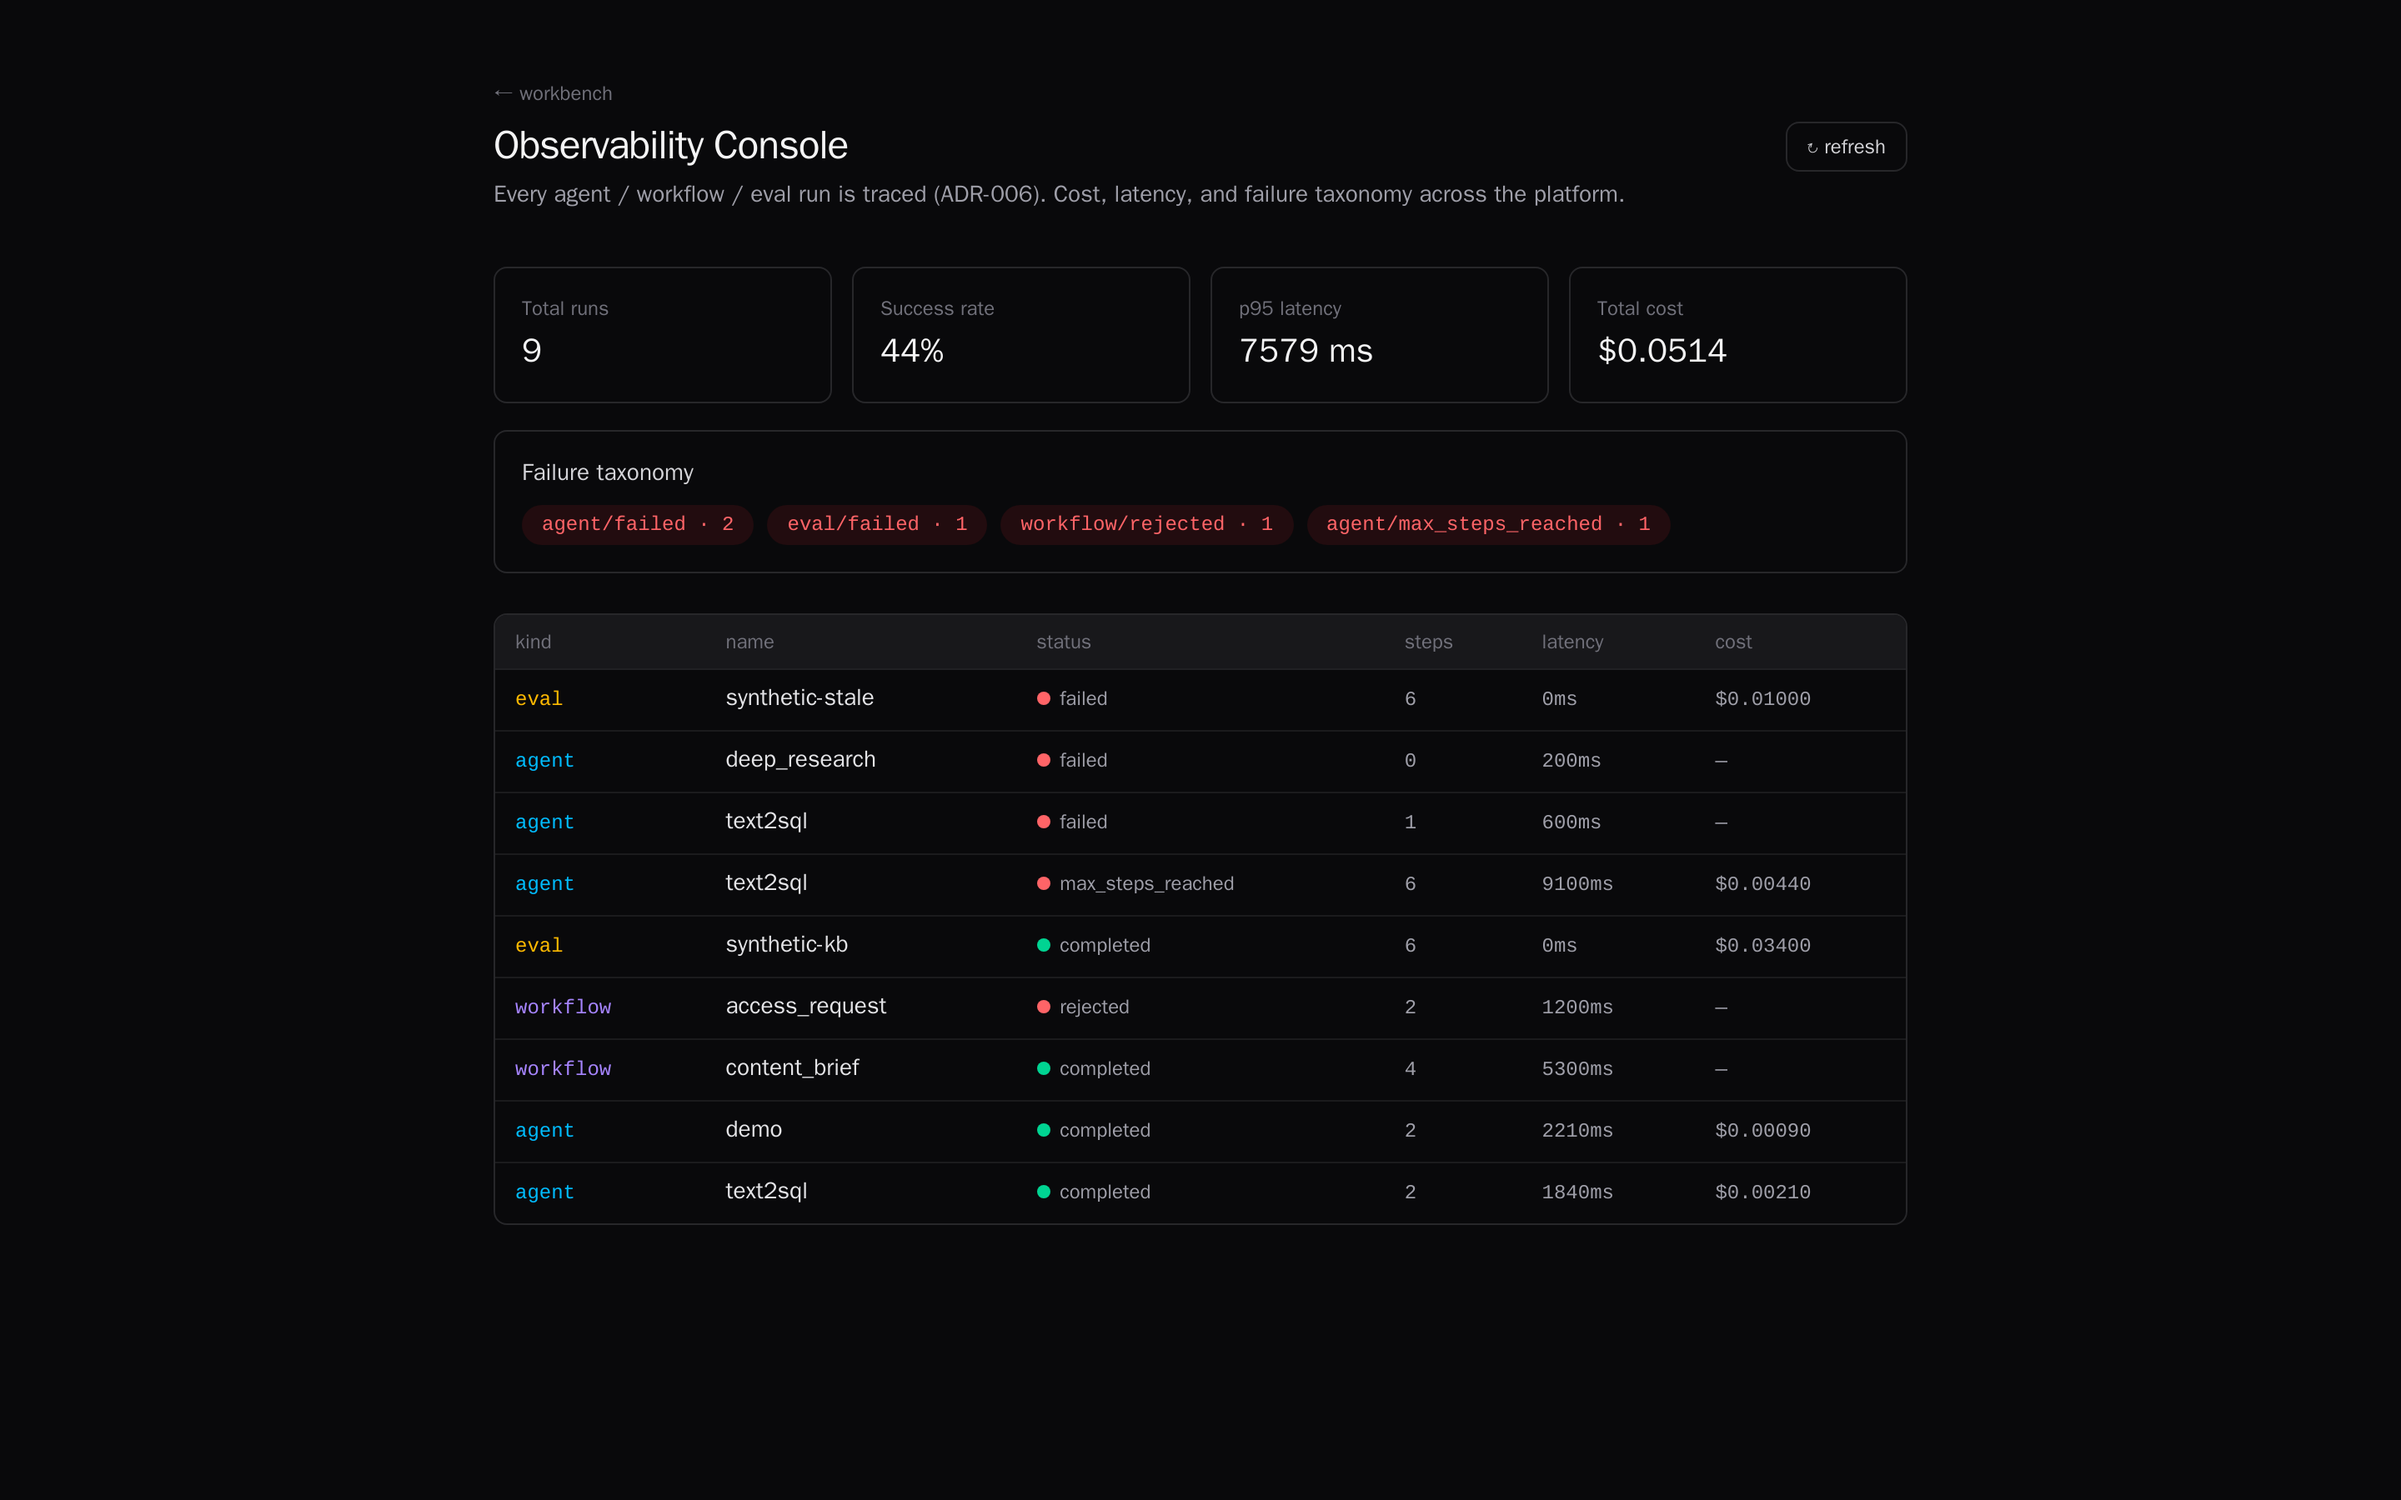
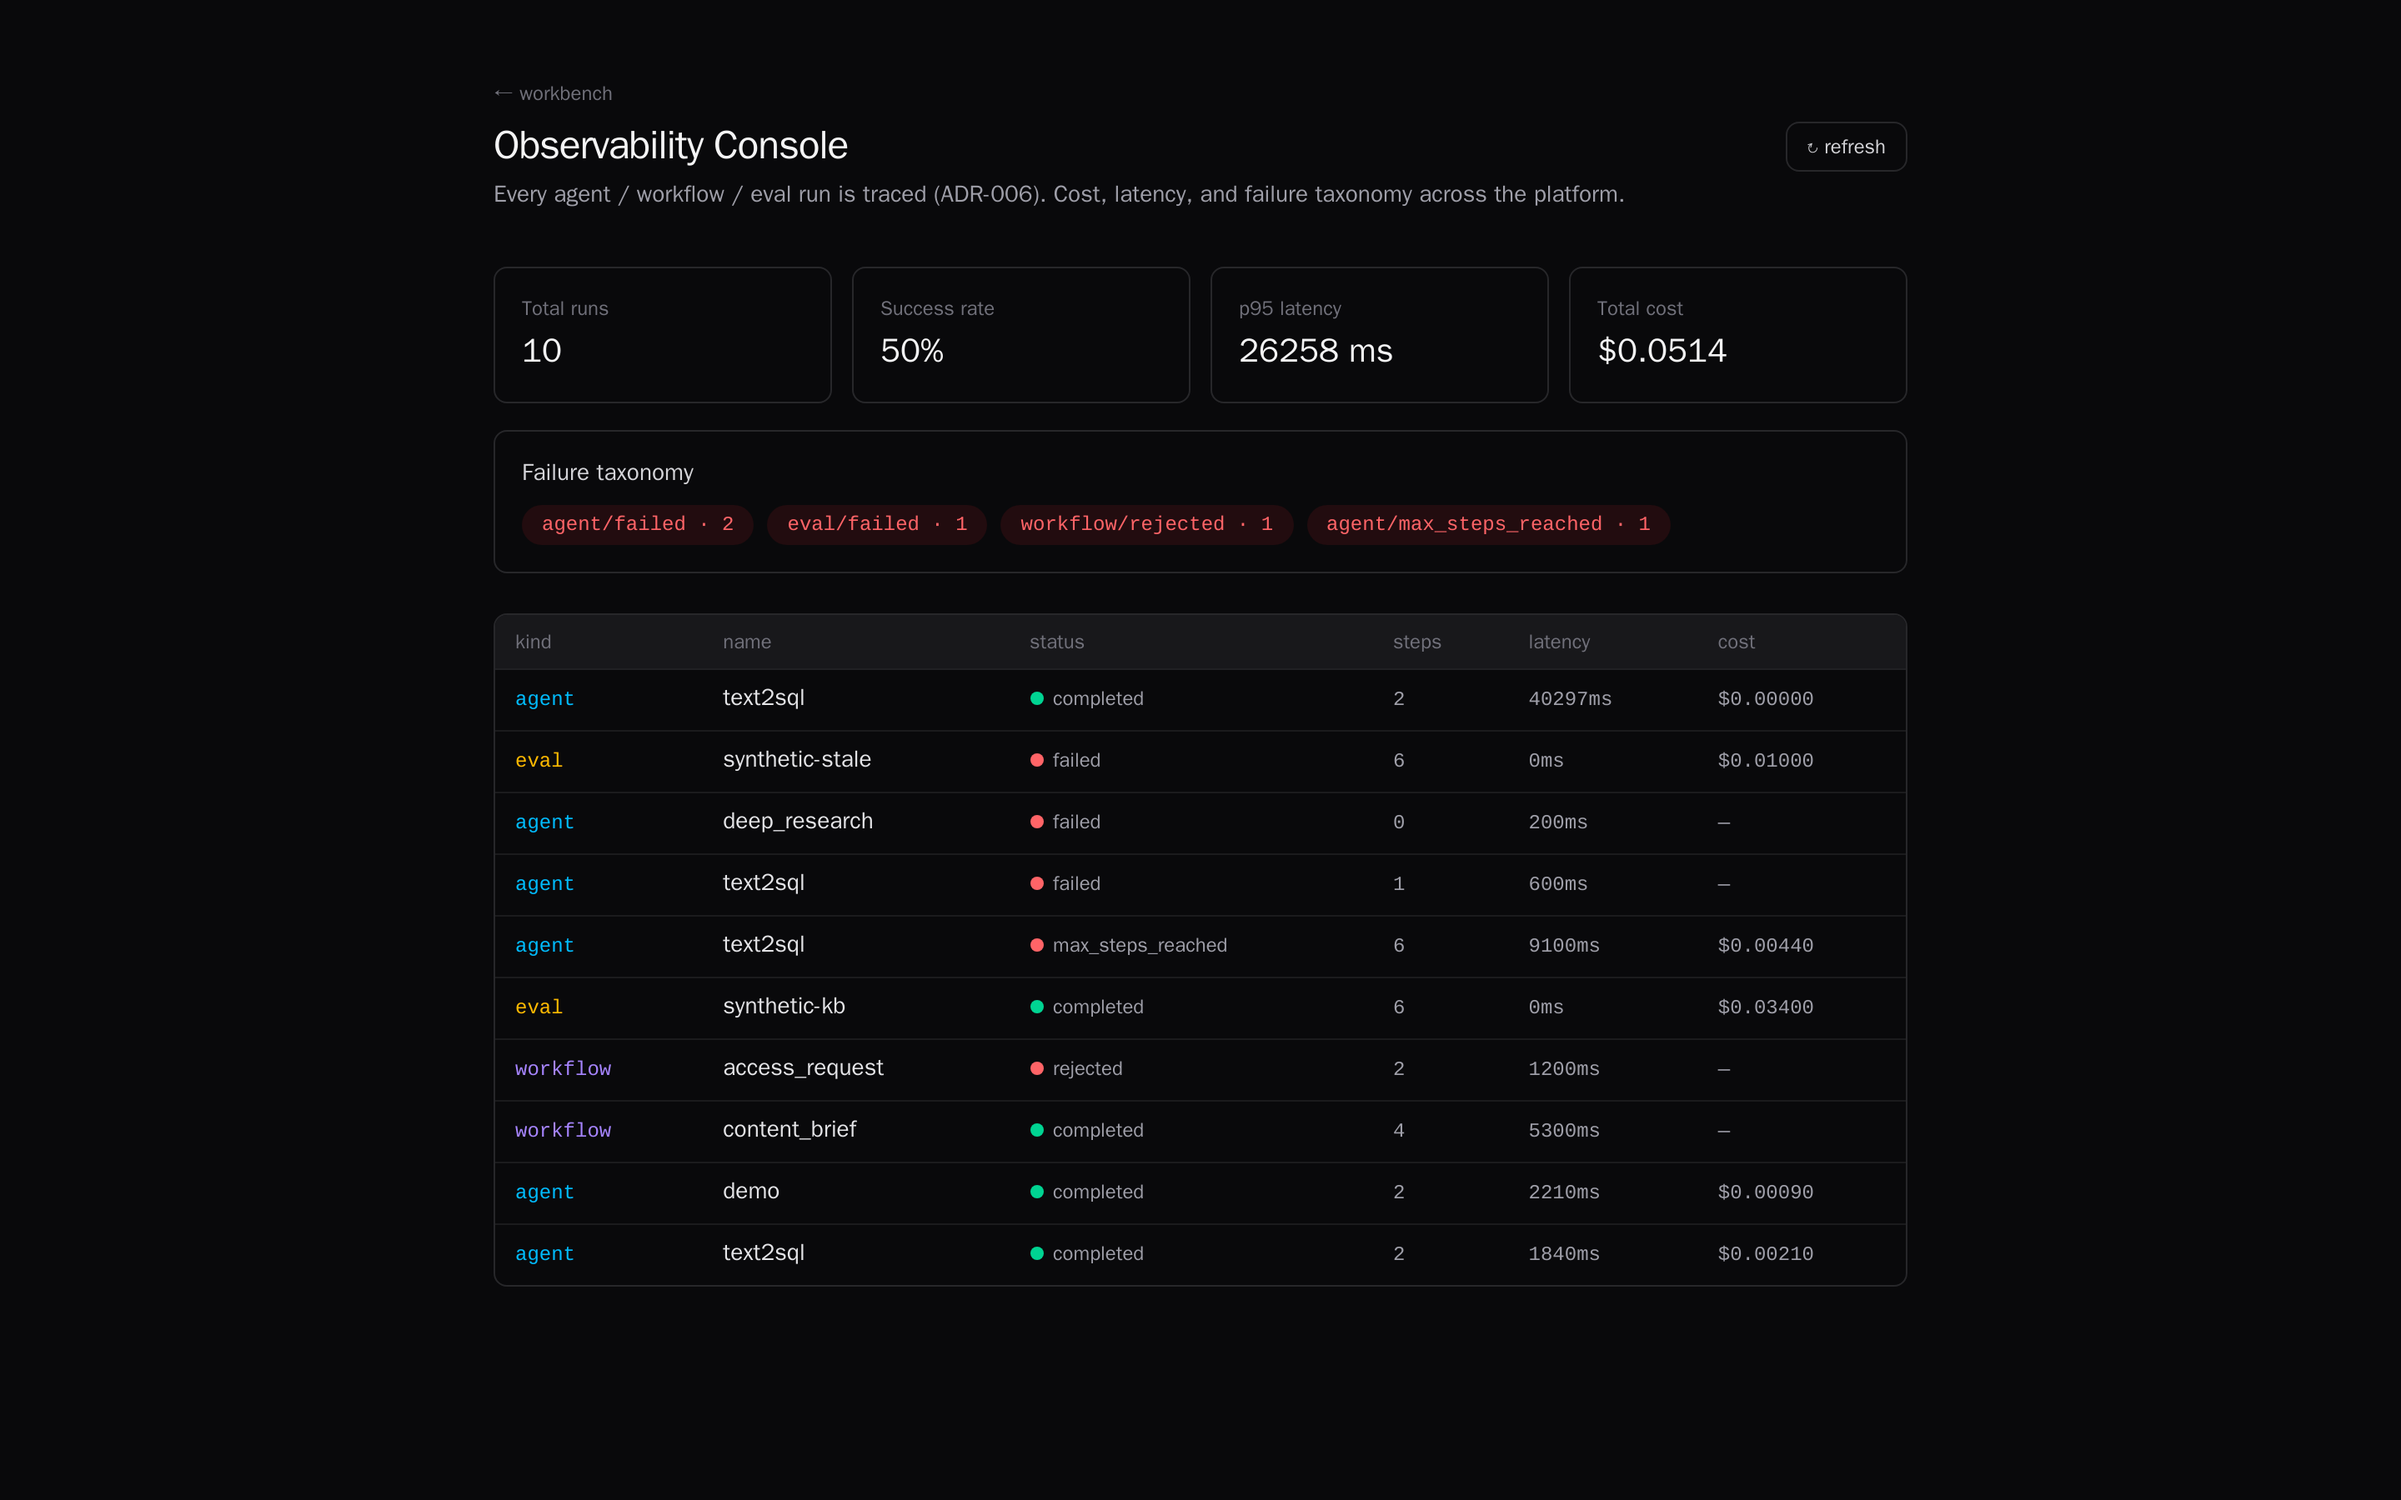
Three of the demo screenshots, captured against a live local model
No provider key was needed after all: the platform is local-first by design, so
pointing WB_LOCAL_LLM_BASE_URL at Ollama and setting WB_ROUTE_STANDARD_VIA_LOCAL
makes the standard tier real. Every run below actually happened.

- text2sql: a live question answered end to end. Worth looking at the executed
  statement — the model wrote `SELECT COUNT(*) FROM orders WHERE status =
  'pending'` and what ran carries `LIMIT 200`, injected by the guard. That is
  ADR-004 visible in a screenshot rather than asserted in a document.
- workflows: the orchestrator suspended at `awaiting_approval` on the `grant`
  step, with Approve/Reject in front of the risky action. The state machine is
  deterministic; the model never decides which step runs.
- observability: the same runs traced, with the live text2sql run at the top at
  $0.00000 because it was served locally, next to the seeded ones.

Replaces the earlier observability capture, which had only seeded data.

The remaining three stay uncaptured, and the README now says why rather than
implying they are merely pending: the autonomous agent and deep research ask for
`complexity="complex"` (agent.py:189,206), and that chain routes to a frontier
API by design (ADR-003, ADR-008) — a local model is not substituted into it.
Rewiring the router to get a screenshot would be changing a documented decision
for a picture. The live-browser flagship additionally needs chromium in the api
image.

diff --git a/README.md b/README.md
@@ -23,18 +23,33 @@ externally-connected flagships (autonomous agent, live browser, real-web researc
 and then shows the engineering rigor underneath (guarded SQL, approval-gated
 workflows, per-run observability). Run it locally with `make up && make ui`.
 
+![Text-to-SQL — question, generated SQL, result and reasoning trace](docs/screenshots/text2sql.png)
+
+*Text-to-SQL against the bundled retail database, answered by a local model
+through the router. The `LIMIT 200` in the executed statement was not written by
+the model — the SQL guard injects it (ADR-004), alongside the AST check, the
+function denylist, the table allowlist and a read-only connection.*
+
+![Workflow Orchestrator paused at its approval gate](docs/screenshots/workflows.png)
+
+*The orchestrator suspended at `awaiting_approval`. Control flow is deterministic
+— no model output decides which step runs — and the `grant` step cannot execute
+until a human approves or rejects, with the decision written to the audit log
+(ADR-007).*
+
 ![Observability Console — cost, latency and failure taxonomy for every run](docs/screenshots/observability.png)
 
-*The Observability Console over the Compose stack, reading nine seeded runs
-(`make seed`). Every agent, workflow and eval run lands here with its status,
-step count, latency and cost; the failure taxonomy is aggregated in SQL.*
+*Every agent, workflow and eval run is traced (ADR-006): status, step count,
+latency and cost, with the failure taxonomy aggregated in SQL. The top row is
+the live Text-to-SQL run above — `$0.00000` because it was served locally.*
 
-<!-- The remaining shots need a live provider key, so they are not committed yet
-     — see docs/screenshots/README.md for the list and how to capture them.
+<!-- Still to capture. The autonomous agent and deep research request the
+     `complex` tier, which routes to a frontier API by design (ADR-003/008), so
+     these two need a provider key; the live-browser flagship additionally needs
+     chromium in the api image. See docs/screenshots/README.md.
 ![Autonomous Agent — plan/act/reflect loop](docs/screenshots/autonomous.gif)
 ![Live Computer-Use — driving a real site](docs/screenshots/browse.gif)
 ![Deep Research — cited report over the real web](docs/screenshots/research.png)
-![Text-to-SQL — SQL + result + reasoning trace](docs/screenshots/text2sql.png)
 -->
 
 ## What's built
